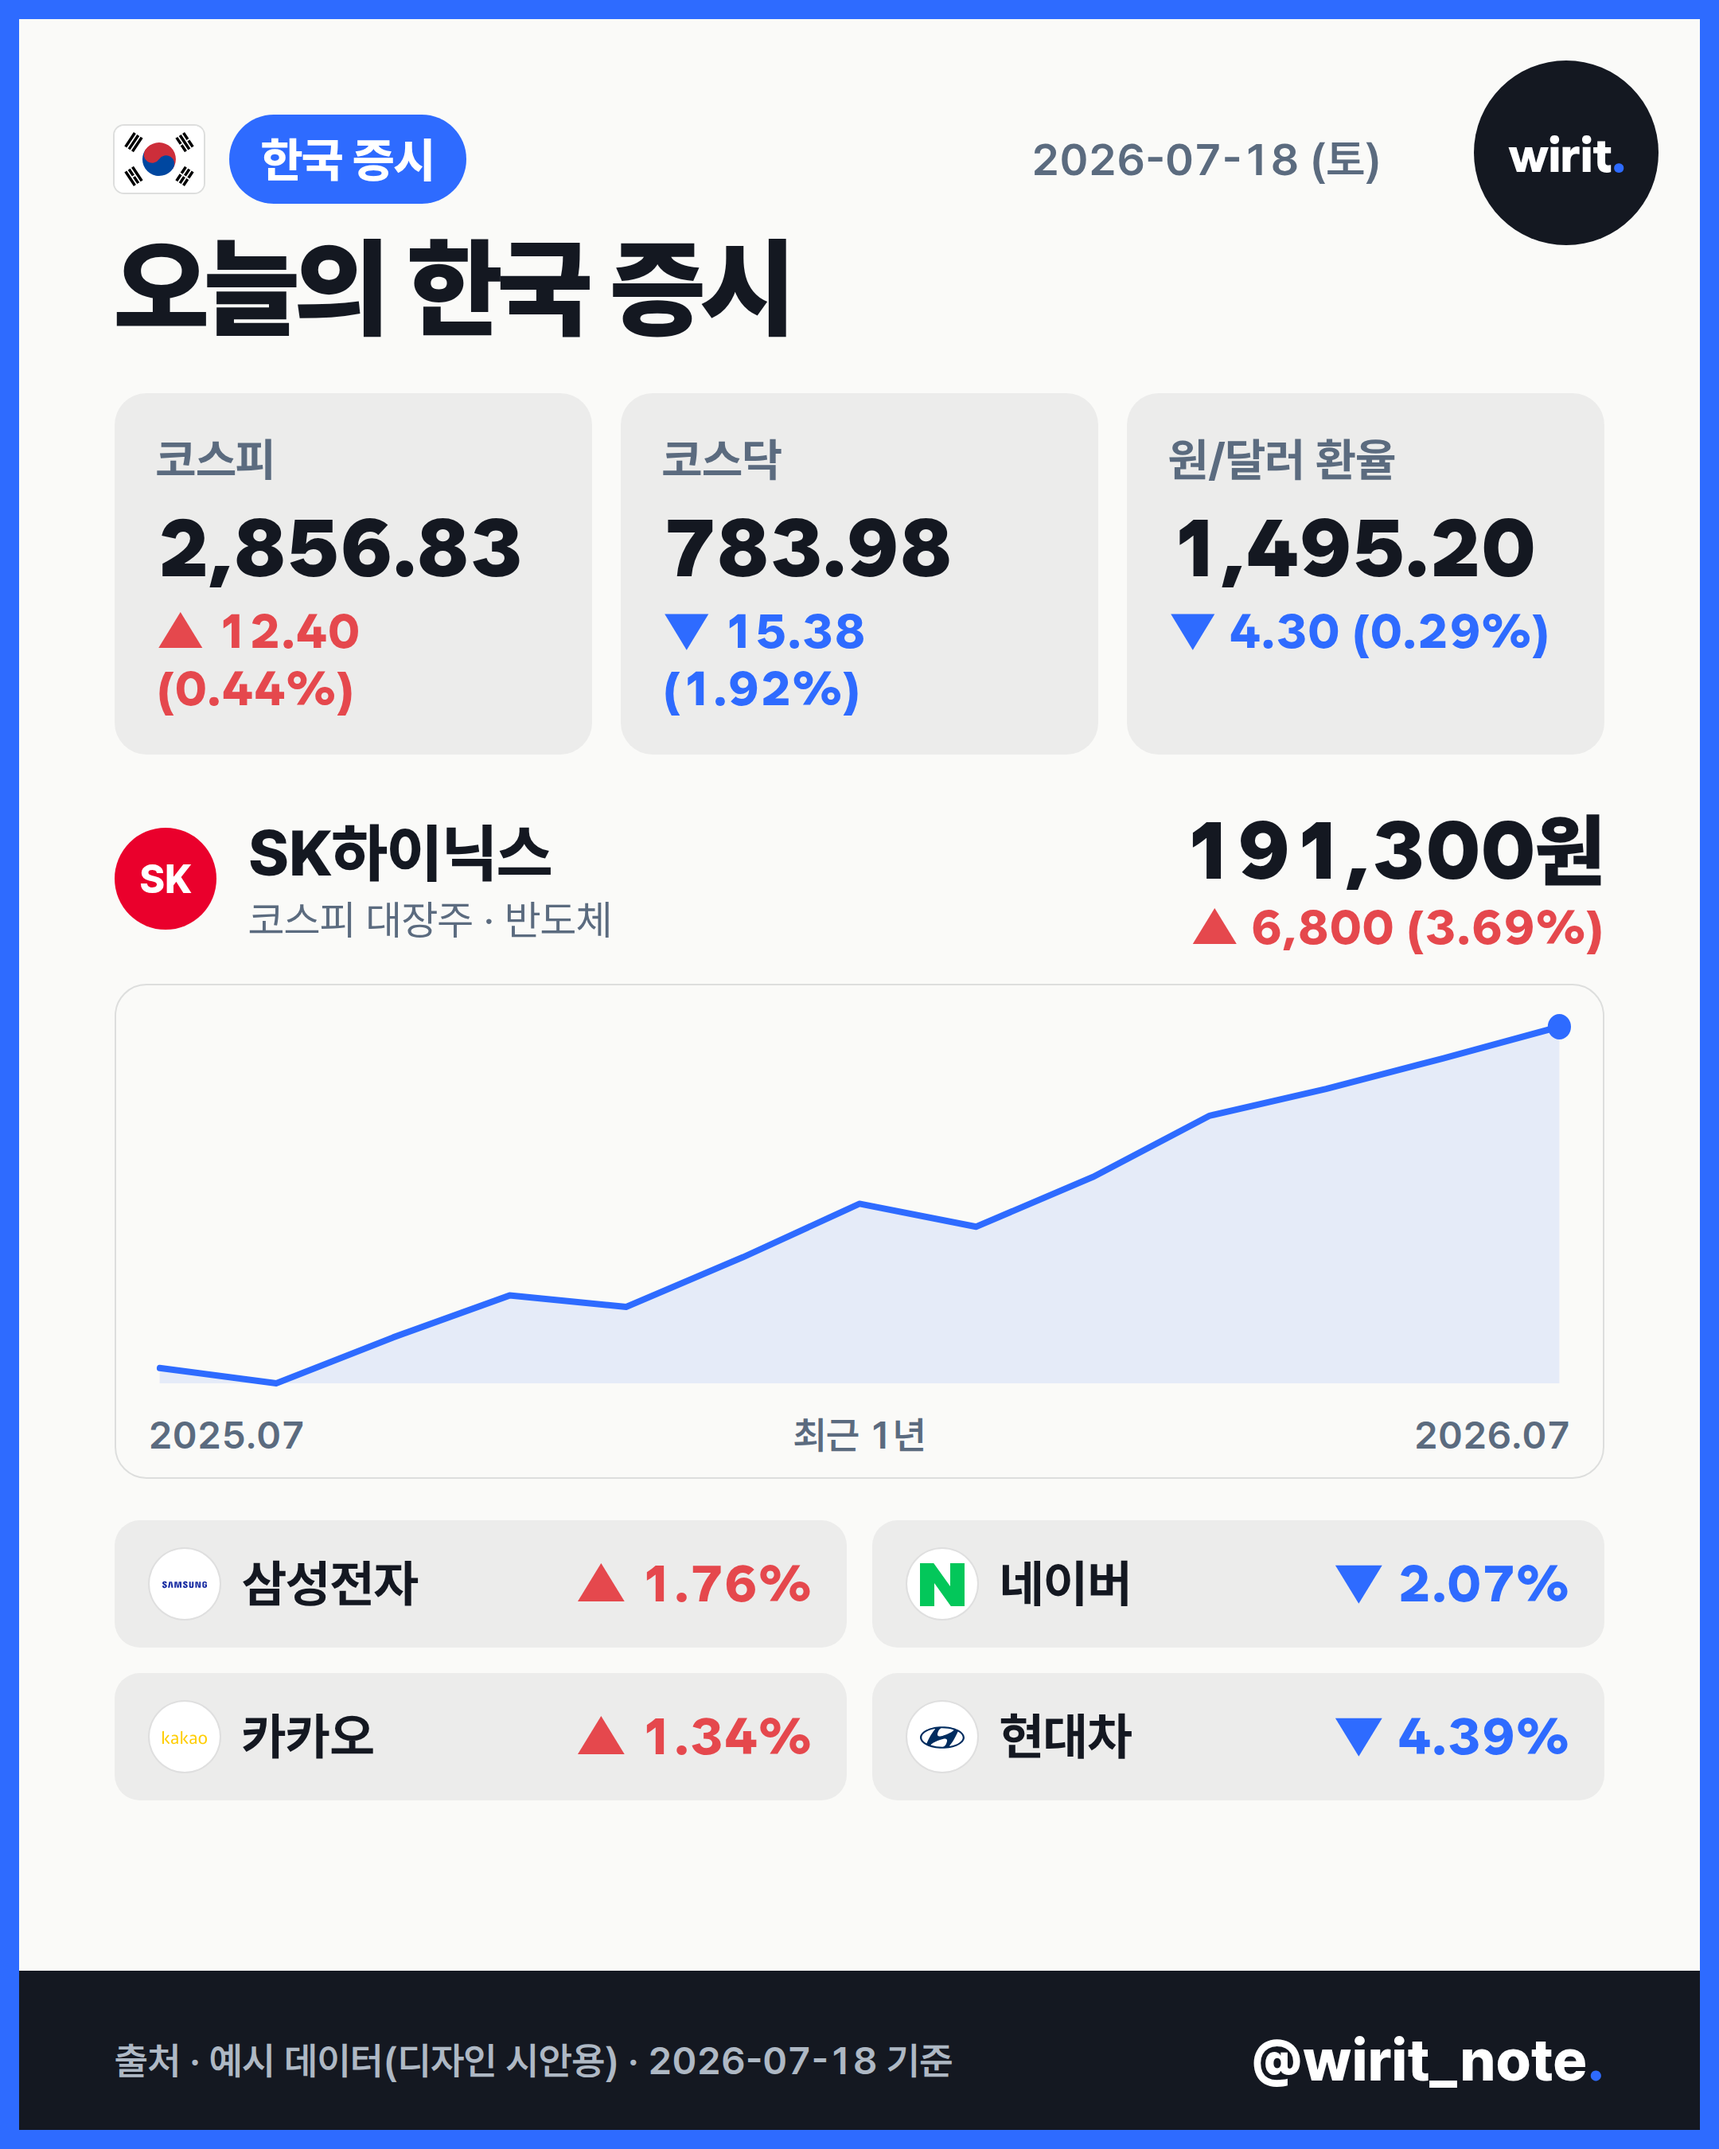
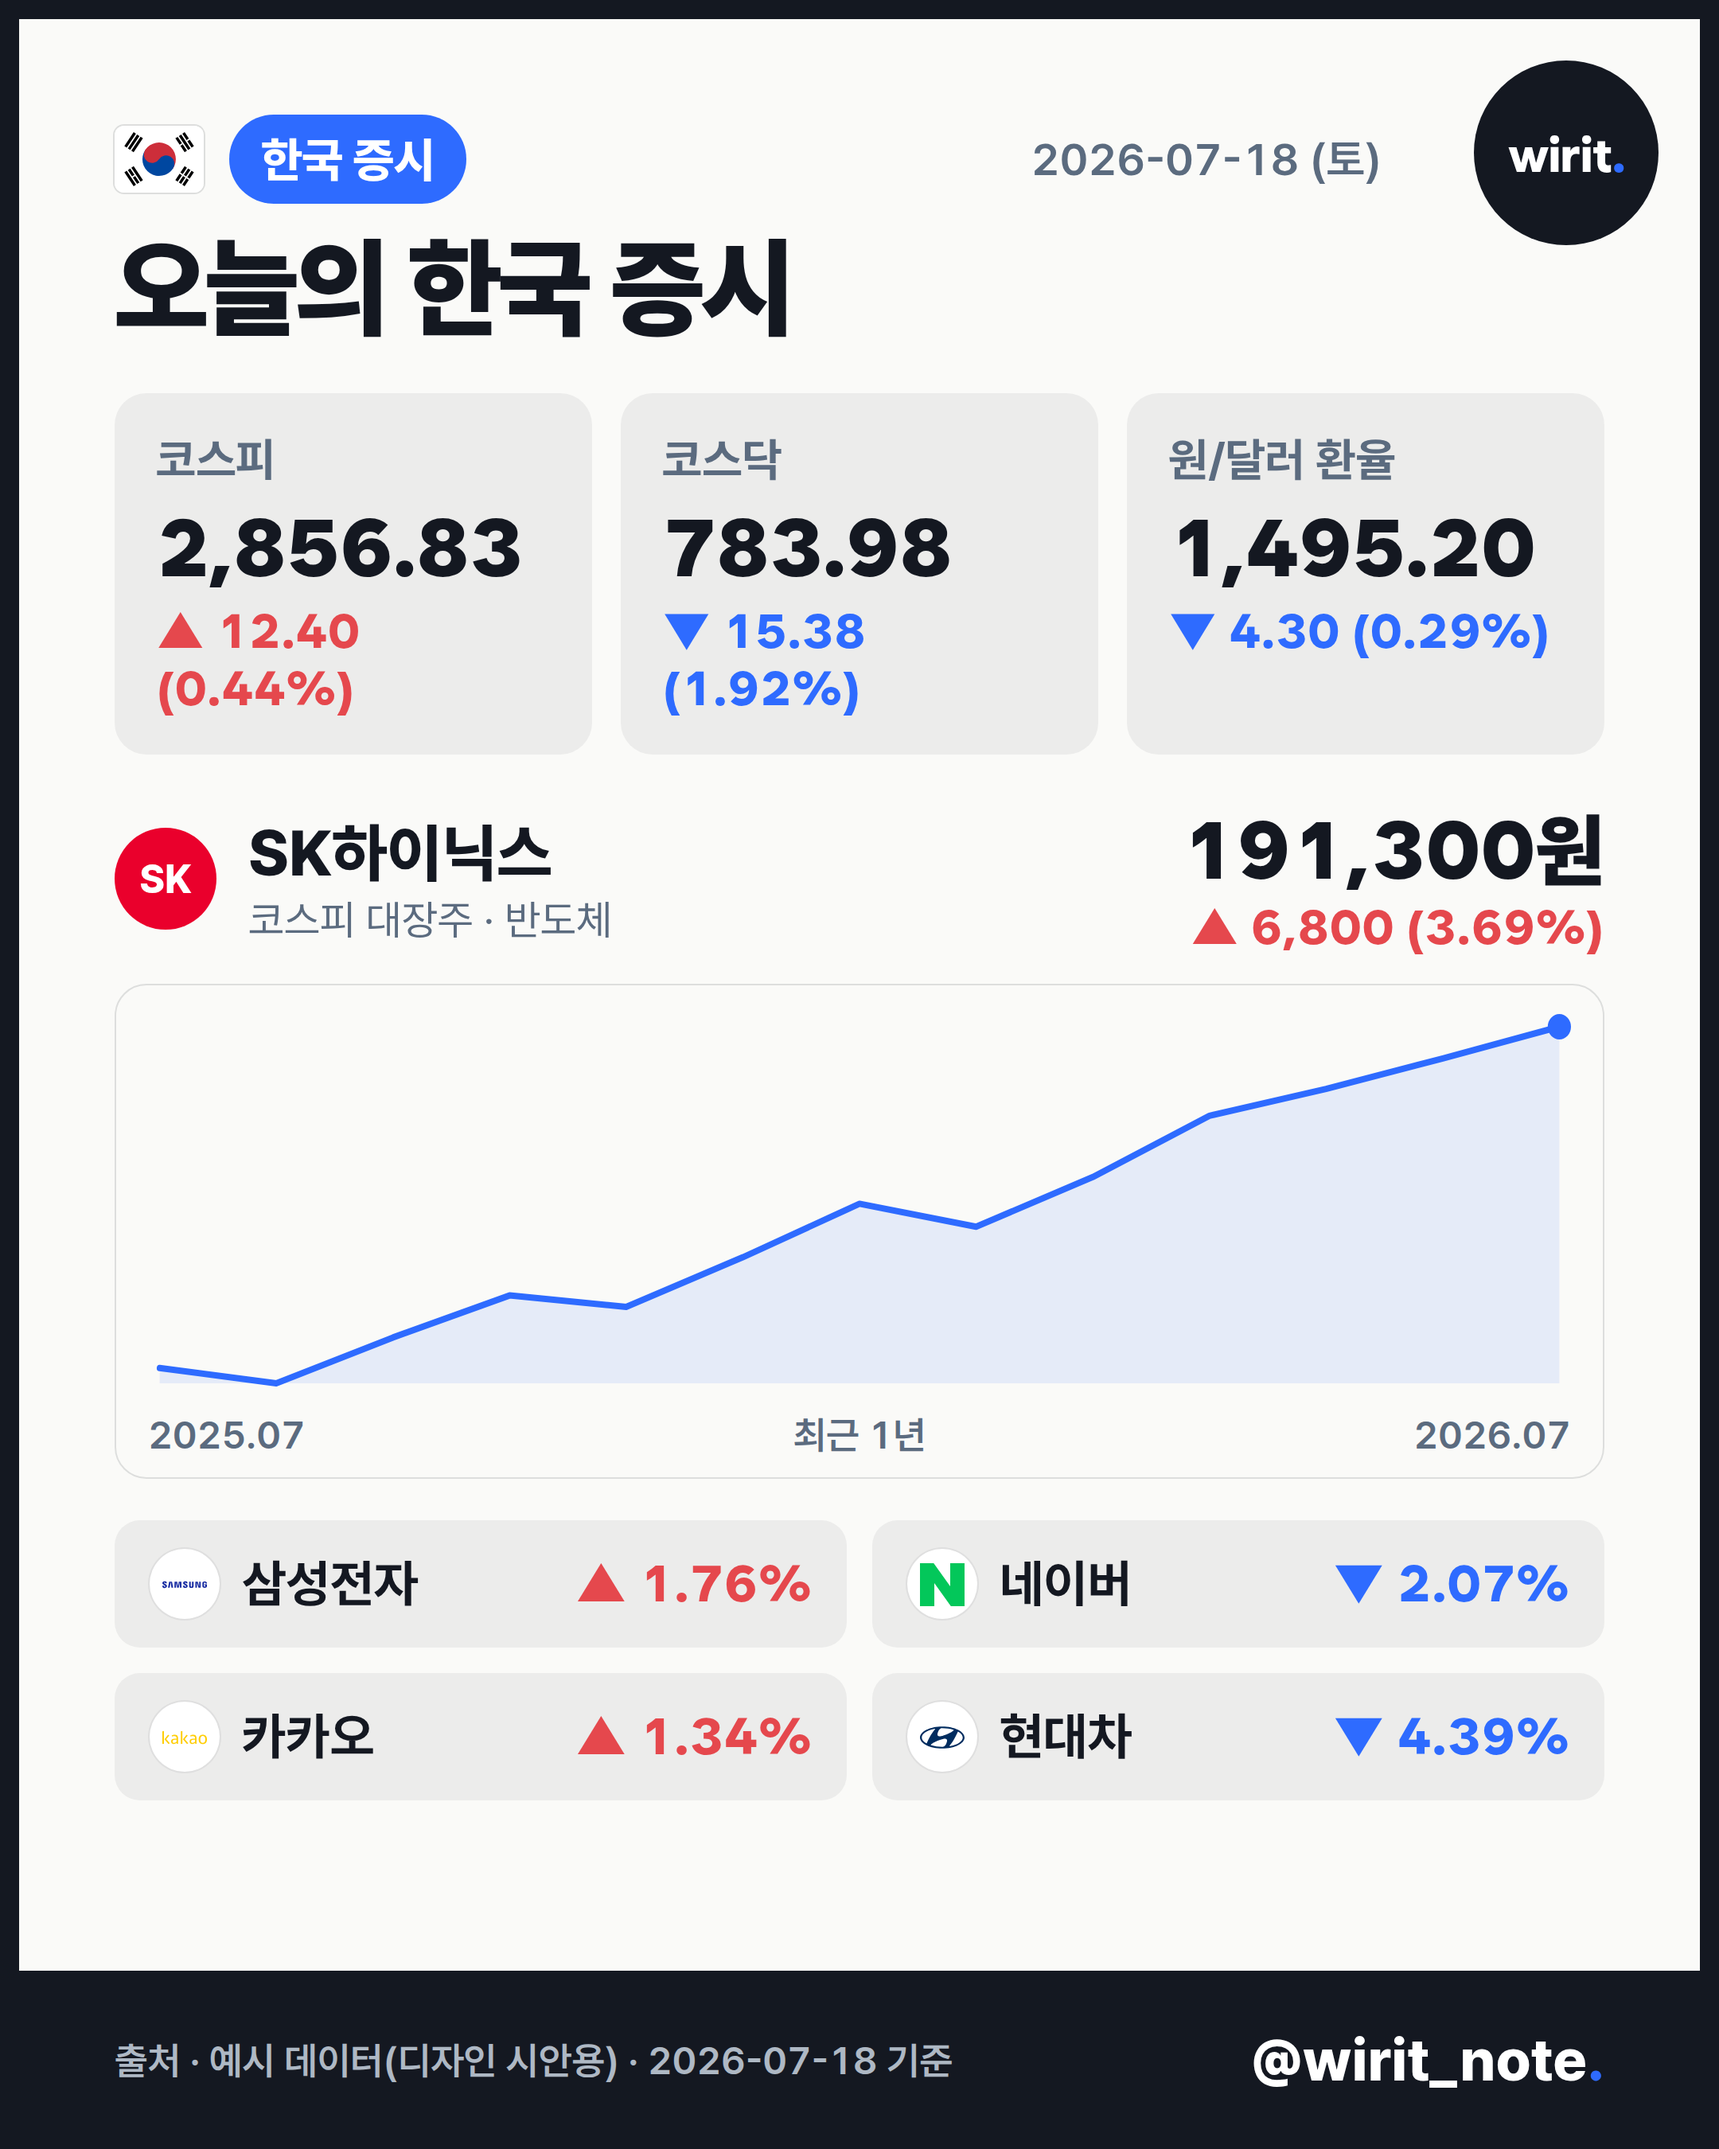
카드 테두리 코발트 → 잉크네이비 확정 (운영자 선택)
- 우상단 원형로고·하단 푸터와 동일 잉크네이비로 통일된 프레임
- 코발트는 강조 전용(뱃지·순위·차트·마침표) 유지 → 브랜드 규칙 부합
- 미리보기 갱신

Claude-Session: https://claude.ai/code/session_011udkYLBNK9UFtPjocKSiQC

Changed region(s): [[0.0, 0.0, 1.0, 1.0]]

diff --git a/templates/_shared/base.css b/templates/_shared/base.css
@@ -217,7 +217,7 @@ body {
   content: "";
   position: absolute;
   inset: 0;
-  border: 12px solid var(--wirit-cobalt);
+  border: 12px solid var(--wirit-ink);
   pointer-events: none;
   z-index: 10;
 }
